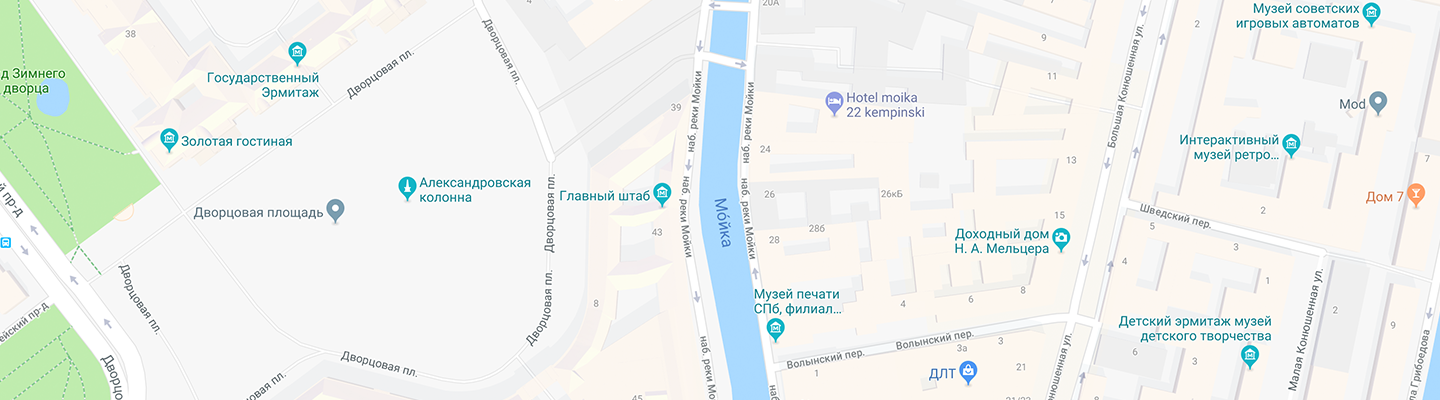
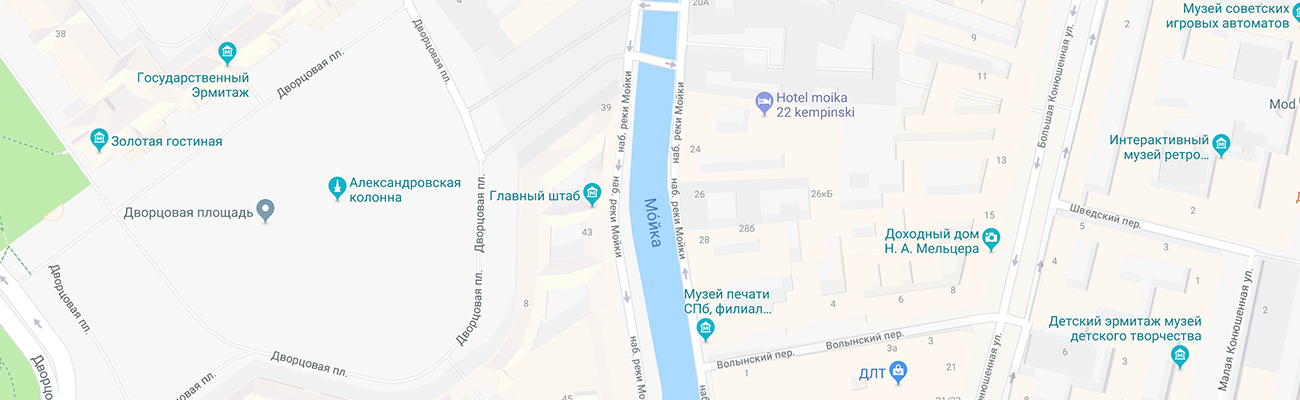
Fixes in work

diff --git a/source/catalog.html b/source/catalog.html
@@ -348,7 +348,19 @@
             <p class="contacts__address">ул. Большая Конюшенная,&nbsp;д.&nbsp;19/8 <br class="contacts__empty-line"><br class="contacts__empty-line"> Санкт-Петербург</p>
           </div>
         </div>
-        <iframe class="contacts__map" title="Наш адрес: ул. Большая Конюшенная, д. 19/8" src="https://www.google.com/maps/embed?pb=!1m18!1m12!1m3!1d1188.3768433351115!2d30.321919206604246!3d59.93871867523762!2m3!1f0!2f0!3f0!3m2!1i1024!2i768!4f13.1!3m3!1m2!1s0x4696310fca145cc1%3A0x42b32648d8238007!2z0JHQvtC70YzRiNCw0Y8g0JrQvtC90Y7RiNC10L3QvdCw0Y8g0YPQuy4sIDE5LzgsINCh0LDQvdC60YIt0J_QtdGC0LXRgNCx0YPRgNCzLCAxOTExODY!5e0!3m2!1sru!2sru!4v1573378892896!5m2!1sru!2sru" width="320" height="360" allowfullscreen=""></iframe>
+        <div class="contacts__map">
+          <iframe class="contacts__iframe hidden" title="Наш адрес: ул. Большая Конюшенная, д. 19/8" src="https://www.google.com/maps/embed?pb=!1m18!1m12!1m3!1d1188.3768433351115!2d30.321919206604246!3d59.93871867523762!2m3!1f0!2f0!3f0!3m2!1i1024!2i768!4f13.1!3m3!1m2!1s0x4696310fca145cc1%3A0x42b32648d8238007!2z0JHQvtC70YzRiNCw0Y8g0JrQvtC90Y7RiNC10L3QvdCw0Y8g0YPQuy4sIDE5LzgsINCh0LDQvdC60YIt0J_QtdGC0LXRgNCx0YPRgNCzLCAxOTExODY!5e0!3m2!1sru!2sru!4v1573378892896!5m2!1sru!2sru" width="100%" height="360" allowfullscreen=""></iframe>
+          <div class="contacts__map-container wrapper">
+            <picture class="contacts__picture">
+              <source type="image/webp" srcset="img/bg-map-desktop@1x.webp 1x, img/bg-map-desktop@2x.webp 2x" media="(min-width: 1300px)">
+              <source type="image/webp" srcset="img/bg-map-tablet@1x.webp 1x, img/bg-map-tablet@2x.webp 2x" media="(min-width: 768px)">
+              <source type="image/webp" srcset="img/bg-map-mobile@1x.webp 1x, img/bg-map-mobile@2x.webp 2x">
+              <source srcset="img/bg-map-desktop@1x.png 1x, img/bg-map-desktop@2x.png 2x" media="(min-width: 1300px)">
+              <source srcset="img/bg-map-tablet@1x.png 1x, img/bg-map-tablet@2x.png 2x" media="(min-width: 768px)">
+              <img class="contacts__map-image" src="img/bg-map-mobile@1x.png" srcset="img/bg-map-mobile@2x.png 2x" width="320" height="360" alt="Мы находимся по адресу: ул. Большая Конюшенная, д. 19/8 Санкт-Петербург">
+            </picture>
+          </div>
+        </div>
       </section>
       <div class="page-footer__menu">
         <div class="page-footer__wrapper wrapper">

diff --git a/source/form.html b/source/form.html
@@ -133,7 +133,19 @@
             <p class="contacts__address">ул. Большая Конюшенная,&nbsp;д.&nbsp;19/8 <br class="contacts__empty-line"><br class="contacts__empty-line"> Санкт-Петербург</p>
           </div>
         </div>
-        <iframe class="contacts__map" title="Наш адрес: ул. Большая Конюшенная, д. 19/8" src="https://www.google.com/maps/embed?pb=!1m18!1m12!1m3!1d1188.3768433351115!2d30.321919206604246!3d59.93871867523762!2m3!1f0!2f0!3f0!3m2!1i1024!2i768!4f13.1!3m3!1m2!1s0x4696310fca145cc1%3A0x42b32648d8238007!2z0JHQvtC70YzRiNCw0Y8g0JrQvtC90Y7RiNC10L3QvdCw0Y8g0YPQuy4sIDE5LzgsINCh0LDQvdC60YIt0J_QtdGC0LXRgNCx0YPRgNCzLCAxOTExODY!5e0!3m2!1sru!2sru!4v1573378892896!5m2!1sru!2sru" width="320" height="360" allowfullscreen=""></iframe>
+        <div class="contacts__map">
+          <iframe class="contacts__iframe hidden" title="Наш адрес: ул. Большая Конюшенная, д. 19/8" src="https://www.google.com/maps/embed?pb=!1m18!1m12!1m3!1d1188.3768433351115!2d30.321919206604246!3d59.93871867523762!2m3!1f0!2f0!3f0!3m2!1i1024!2i768!4f13.1!3m3!1m2!1s0x4696310fca145cc1%3A0x42b32648d8238007!2z0JHQvtC70YzRiNCw0Y8g0JrQvtC90Y7RiNC10L3QvdCw0Y8g0YPQuy4sIDE5LzgsINCh0LDQvdC60YIt0J_QtdGC0LXRgNCx0YPRgNCzLCAxOTExODY!5e0!3m2!1sru!2sru!4v1573378892896!5m2!1sru!2sru" width="100%" height="360" allowfullscreen=""></iframe>
+          <div class="contacts__map-container wrapper">
+            <picture class="contacts__picture">
+              <source type="image/webp" srcset="img/bg-map-desktop@1x.webp 1x, img/bg-map-desktop@2x.webp 2x" media="(min-width: 1300px)">
+              <source type="image/webp" srcset="img/bg-map-tablet@1x.webp 1x, img/bg-map-tablet@2x.webp 2x" media="(min-width: 768px)">
+              <source type="image/webp" srcset="img/bg-map-mobile@1x.webp 1x, img/bg-map-mobile@2x.webp 2x">
+              <source srcset="img/bg-map-desktop@1x.png 1x, img/bg-map-desktop@2x.png 2x" media="(min-width: 1300px)">
+              <source srcset="img/bg-map-tablet@1x.png 1x, img/bg-map-tablet@2x.png 2x" media="(min-width: 768px)">
+              <img class="contacts__map-image" src="img/bg-map-mobile@1x.png" srcset="img/bg-map-mobile@2x.png 2x" width="320" height="360" alt="Мы находимся по адресу: ул. Большая Конюшенная, д. 19/8 Санкт-Петербург">
+            </picture>
+          </div>
+        </div>
       </section>
       <div class="page-footer__menu">
         <div class="page-footer__wrapper wrapper">

diff --git a/source/index.html b/source/index.html
@@ -150,7 +150,19 @@
             <p class="contacts__address">ул. Большая Конюшенная,&nbsp;д.&nbsp;19/8 <br><br class="contacts__empty-line"> Санкт-Петербург</p>
           </div>
         </div>
-        <iframe class="contacts__map" title="Наш адрес: ул. Большая Конюшенная, д. 19/8" src="https://www.google.com/maps/embed?pb=!1m18!1m12!1m3!1d1188.3768433351115!2d30.321919206604246!3d59.93871867523762!2m3!1f0!2f0!3f0!3m2!1i1024!2i768!4f13.1!3m3!1m2!1s0x4696310fca145cc1%3A0x42b32648d8238007!2z0JHQvtC70YzRiNCw0Y8g0JrQvtC90Y7RiNC10L3QvdCw0Y8g0YPQuy4sIDE5LzgsINCh0LDQvdC60YIt0J_QtdGC0LXRgNCx0YPRgNCzLCAxOTExODY!5e0!3m2!1sru!2sru!4v1573378892896!5m2!1sru!2sru" width="320" height="360" allowfullscreen=""></iframe>
+        <div class="contacts__map">
+          <iframe class="contacts__iframe hidden" title="Наш адрес: ул. Большая Конюшенная, д. 19/8" src="https://www.google.com/maps/embed?pb=!1m18!1m12!1m3!1d1188.3768433351115!2d30.321919206604246!3d59.93871867523762!2m3!1f0!2f0!3f0!3m2!1i1024!2i768!4f13.1!3m3!1m2!1s0x4696310fca145cc1%3A0x42b32648d8238007!2z0JHQvtC70YzRiNCw0Y8g0JrQvtC90Y7RiNC10L3QvdCw0Y8g0YPQuy4sIDE5LzgsINCh0LDQvdC60YIt0J_QtdGC0LXRgNCx0YPRgNCzLCAxOTExODY!5e0!3m2!1sru!2sru!4v1573378892896!5m2!1sru!2sru" width="100%" height="100%" allowfullscreen=""></iframe>
+          <div class="contacts__map-container wrapper">
+            <picture class="contacts__picture">
+              <source type="image/webp" srcset="img/bg-map-desktop@1x.webp 1x, img/bg-map-desktop@2x.webp 2x" media="(min-width: 1300px)">
+              <source type="image/webp" srcset="img/bg-map-tablet@1x.webp 1x, img/bg-map-tablet@2x.webp 2x" media="(min-width: 768px)">
+              <source type="image/webp" srcset="img/bg-map-mobile@1x.webp 1x, img/bg-map-mobile@2x.webp 2x">
+              <source srcset="img/bg-map-desktop@1x.png 1x, img/bg-map-desktop@2x.png 2x" media="(min-width: 1300px)">
+              <source srcset="img/bg-map-tablet@1x.png 1x, img/bg-map-tablet@2x.png 2x" media="(min-width: 768px)">
+              <img class="contacts__map-image" src="img/bg-map-mobile@1x.png" srcset="img/bg-map-mobile@2x.png 2x" width="320" height="360" alt="Мы находимся по адресу: ул. Большая Конюшенная, д. 19/8 Санкт-Петербург">
+            </picture>
+          </div>
+        </div>
       </section>
       <div class="page-footer__menu">
         <div class="page-footer__wrapper wrapper">

diff --git a/source/less/blocks/contacts.less b/source/less/blocks/contacts.less
@@ -39,8 +39,22 @@
 
 .contacts__map {
   width: 100%;
+  min-width: 320px;
+  height: 360px;
   background-color: #fdf7f0;
   border: none;
+}
+
+.contacts__picture {
+  .set-font-size(0);
+}
+
+.contacts__map-container {
+  width: 320px;
+}
+
+.contacts__map-image {
+  width: 100%;
 }
 
 @media (min-width: @tablet-width) {
@@ -69,8 +83,13 @@
     display: inline;
   }
 
-  .contacts__map {
+  .contacts__map  {
+    min-width: @tablet-width;
     height: 400px;
+  }
+
+  .contacts__map-container {
+    width: 768px;
   }
 }
 
@@ -95,5 +114,14 @@
   .contacts__address {
     width: 168px;
     text-align: left;
+  }
+
+  .contacts__map  {
+    min-width: @desktop-width;
+  }
+
+  .contacts__map-container {
+    // width: 1440px;
+    width: 1300px;
   }
 }

diff --git a/source/js/script.js b/source/js/script.js
@@ -1,9 +1,13 @@
 var navMain = document.querySelector('.main-nav');
 var navToggle = document.querySelector('.main-nav__toggle');
+var contactsFrame = document.querySelector('.contacts__iframe');
+var contactsImage = document.querySelector('.contacts__map-image');
 
 navMain.classList.remove('main-nav--nojs');
 navMain.classList.add('main-nav--closed');
 navMain.classList.remove('main-nav--opened');
+// contactsFrame.classList.remove('hidden');
+// contactsImage.classList.add('hidden');
 
 navToggle.addEventListener('click', function() {
   if (navMain.classList.contains('main-nav--closed')) {

diff --git a/gulpfile.js b/gulpfile.js
@@ -35,8 +35,7 @@ gulp.task("copy", function () {
   return gulp.src([
       "source/fonts/**/*.{woff,woff2}",
       "source/js/**/*.min.js",
-      "source/ico/**",
-      // "source/*.html"
+      "source/ico/**"
     ], {
       base: "source"
     })
@@ -108,6 +107,7 @@ gulp.task("server", function () {
   });
 
   gulp.watch("source/less/**/*.less", gulp.series("css"));
+  gulp.watch("source/js/**/*.js", gulp.series("js", "refresh"));
   gulp.watch("source/img/sprite/*.svg", gulp.series("sprite", "refresh"));
   gulp.watch("source/*.html", gulp.series("html", "refresh"));
 });

diff --git a/source/less/global.less b/source/less/global.less
@@ -36,3 +36,7 @@ img {
   clip: rect(0 0 0 0);
   overflow: hidden;
 }
+
+.hidden {
+  display: none;
+}
